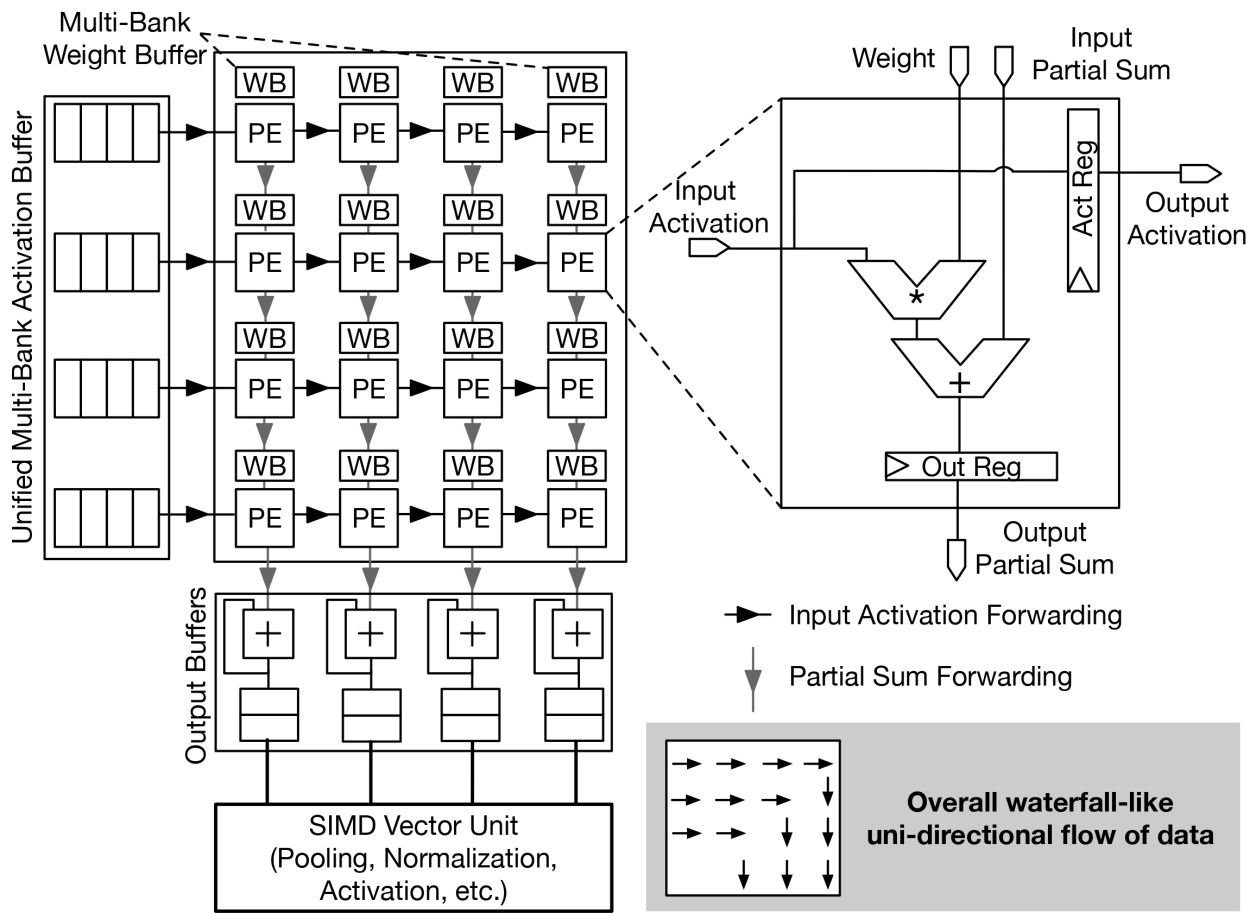
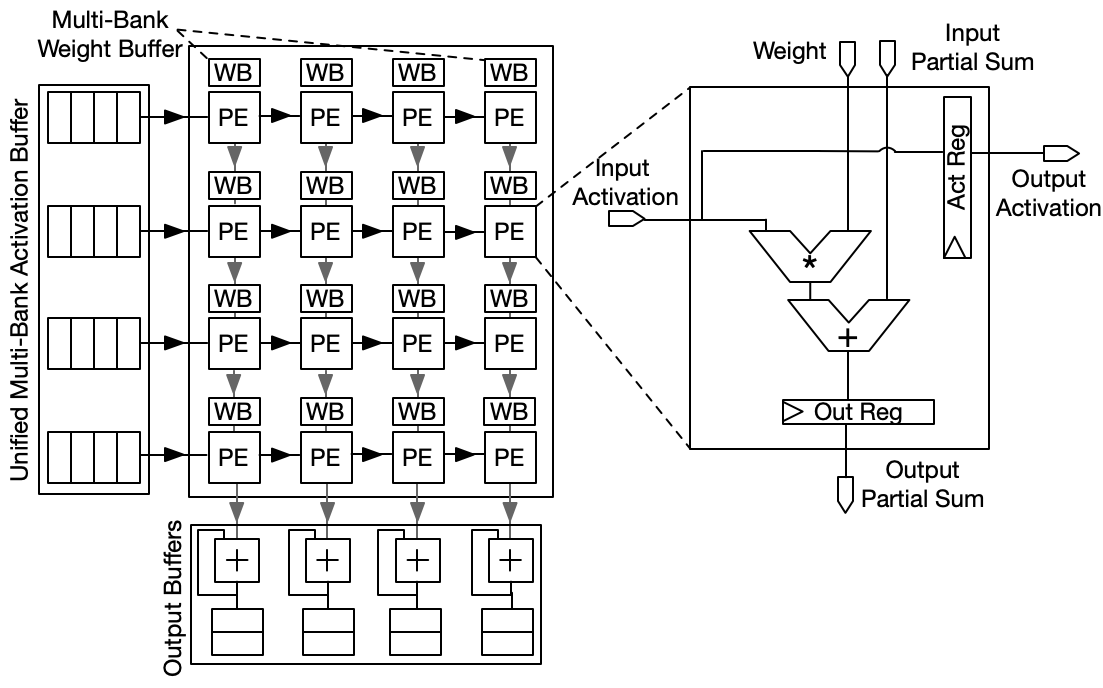
Moved compiler and arch info to separate page + new citation for GeneSys

Changed region(s): [[0.0, 0.0, 1.0, 1.0]]

diff --git a/_pages/architecture.md b/_pages/architecture.md
@@ -1,0 +1,176 @@
+---
+layout: page
+permalink: /architecture/
+title: architecture
+description: 
+nav: true
+nav_order: 2
+---
+
+# Architecture
+The overall system consists of two core components: a systolic array and a Tandem Processor.
+Data is supplied to the two engines through the input buffer (IBUF), output buffer (OBUF), instruction memory (IMEM), weight buffer (WBUF), bias buffer (BBUF) and vector memory (VMEM).
+These interfaces harbor programmable data access modules and controller FSMs that together issue the addresses and requests to load or store a tile of data from/to off-chip memory. 
+The data access creates strided patterns that access the off-chip memory to read/write the corresponding data from/to on-chip buffers and populate the on-chip memory.
+These interfaces also include tag logic that is in charge of handling double-buffered data transfer to hide the latencies of load/store operations and also facilitate prefetching.
+Among these interfaces, the interfaces for the OBUF and Tandem Processor handle both load and store operations, while the other interfaces handle only load operations.
+These interfaces are fully programmable through the instruction set architecture (ISA) of the Tandem Processor. The overall system view is shown below.
+
+<div class="row mt-3">
+    <div class="col-sm mt-3 mt-md-0">
+        {% include figure.html path="assets/img/system_arch.jpg" class="img-fluid rounded z-depth-1" %}
+    </div>
+</div>
+<div class="caption">
+    _GeneSys_ system architecture.
+</div>
+
+## Systolic Array
+We implemented an systolic array to handel GEMM operations.
+The systolic array has been the de facto standard architecture for GEMM operation in both academia and industry.
+A systoic array consists of a 2D array of Processing Elements (PE) to perform matrix multiplications and convolution.
+Input activations are stored on-chip in the IBUFF implemented as a multi-bank scratchpad, where each bank is shared across PEs within a row.
+Each PE contains its own bank of WBUFF where the weights are stored.
+Consequently, at each cycle, an input activation is read from an IBUFF's Bank and is reused for all the PEs (MAC units) within the row.
+At each cycle, each PE forwards the input activation to the PE to its right (horizontal) and the output partial sum to the PE to its bottom (vertical).
+Finally, the outputs are stored in OBUFF which is a shared sctrachpad that Tandem processor can also access.
+
+<div class="row mt-3">
+    <div class="col-sm mt-3 mt-md-0">
+        {% include figure.html path="assets/img/systolic_array.jpg" class="img-fluid rounded z-depth-1" %}
+    </div>
+</div>
+<div class="caption">
+    _GeneSys_ systolic array.
+</div>
+
+## Tandem Processor
+The design of Tandem Processor aims to achieve the following goals.
+1) In-tandem execution of GEMMs and non-GEMMs.
+2) Balanced efficiency and programmability for the non-GEMM unit.
+3) Orchestrating the execution across non-GEMM and GEMM units.
+
+It achieves these goal by the following microarchitecture designs.
+
+<div class="row mt-3">
+    <div class="col-sm mt-3 mt-md-0">
+        {% include figure.html path="assets/img/tandem_pipeline.jpg" class="img-fluid rounded z-depth-1" %}
+    </div>
+</div>
+<div class="caption">
+    Tandem Processor pipeline.
+</div>
+
+### On-Chip Memory Organization
+Tandem Processor replaces the entire vector register file and cache hierarchy with a collection of single-level software-managed on-chip scratchpads.
+Tandem Processor directly accesses and operates on these scratchpads while performing the non-GEMM operations.
+This design innovation is in contrast to all prior SIMD designs that rely on register file execution and memory semantics.
+We refer to Tandem Processor scratchpads as Namespaces, Interim BUF 1&2 namespaces represent the central Tandem Processor’s on-chip scratchpads that operate as a storage medium for tensor operands as well as their intermediate results.
+These scratchpads, which bridge the off-chip memory and Tandem Processor, are populated/drained by a Data Access Engine at a tile granularity.
+The Tandem Processor compiler configures the Data Access Engine by setting the base address of the off-chip source along with a series of stride values.
+Note that, the tiled data may be even dispersed across non-contiguous regions of memory lines, yet statically arranged in strided patterns.
+IMM BUF namespace serves as a small 32-slot scratchpad for immediate values in non-GEMM operations.
+This buffer is programmed with a series of customized instructions at the onset of non-GEMM layer execution.
+The last namespace is Output BUF, which serves as the GEMM Unit’s buffer for output values.
+
+### Specialized On-Chip Data Access
+on-chip address calculations require excessive number of arithmetic instructions which impose runtime overheads.
+To tackle this challenge, we devise a dedicated pipeline stage for address calculation at the front-end, relieving the burden of address calculation from compute units.
+We place the Iterator Tables that are used to store the offset and stride information for scratchpad accesses at the decode stage of the Tandem Processor pipeline.
+There is a dedicated Iterator Table for each namespaces of the Tandem Processor.
+Upon decoding one arithmetic/logic instruction, the ⟨Namespace ID, Iterator Index⟩ retrieves the address calculation information from the corresponding Iterator Table.
+The resulting outputs of accessing the Iterator Tables is a triplet address, two for source operands and one for destination operand.
+Each element of the triplet is a tuple of ⟨offset, stride⟩, indicating that target data resides in Scratchpad[offset + stride].
+The triplet address is passed down to the subsequent pipeline stage (Strided Address Calculation) that repetitively assembles a series of scratchpad addresses, each as the result of offset + stride computation.
+The scratchpad indices propagate down the multi-staged execution pipeline to fetch the tiled operands, perform the non-GEMM operations, and write back the resulting data to the pipeline back-end.
+
+### Nested Loop Support
+Non-GEMM layers are formed of nested loops of primitive operations with pre-determined iteration counts.
+Tandem Processor uses software-managed tables in the fetch pipeline stage to orchestrate the execution of nested loop constructs in hardware.
+Prior to execution, these tables are configured once with the iteration counts and corresponding number of nested loop levels.
+Once configured, these specialized tables are used repeatedly in conjunction with the iterator tables to execute the loop body.
+This is crucial, since appropriate ⟨Offset, Stride⟩ tuples need to be employed at each level of loop nest to correctly calculate the scratchpad addresses.
+This specialized loop execution is unique to Tandem Processor, as prior work [89, 90 ] leveraged hardware-managed loop logic with register-file based designs and did not offer mechanisms to combine it with address calculation.
+
+### Arithmetic Logic Units Design
+To support a diverse set of non-GEMM layers, We instead leverage the feasibility of implementing complex non-GEMM layers with a set of simple primitive operations.
+For instance, GeLU operator can be implemented using five multiplications, three additions, a sign, an absolute, and a minimum operations.
+We consider a union set of these primitives that is comprehensive enough to support a wide range of non-GEMM layers.
+
+### Tandem Processor Coordination, Synchronization, and Overall Execution Flow
+We use tile (sub-tensor) granularity for software pipelining to facilitate execution overlap between GEMM and non-GEMM units.
+To enable tile-based coordination, enable a fluid ownership of the GEMM unit’s Output BUF for Tandem Processor, obviating redundant data communications.
+After the GEMM unit completes storing the intermediate data in the Output BUF, Tandem Processor takes the ownership of the buffer and directly executes its computations on the stored data.
+We leverage the compiler to weave a set of synchronization instructions between GEMM and non-GEMM instructions. 
+These synchronization instructions realize the following objectives: (1) They identify the code regions for GEMM unit and Tandem Processor, facilitating the instruction dispatch. 
+(2) They define the flow of execution between GEMM and non-GEMM units.
+(3) They govern the handshaking mechanism between the acceleration units.
+
+# ISA
+Tandem Prcoessor and systolic array are fully programmable through the ISA available [here](https://github.com/actlab-genesys/GeneSys.arch/blob/main/ISA.xlsx).
+The ISA is consist of the serval class which is discribed in detail below.
+
+<div class="row mt-3">
+    <div class="col-sm mt-3 mt-md-0">
+        {% include figure.html path="assets/img/isa.jpg" class="img-fluid rounded z-depth-1" %}
+    </div>
+</div>
+<div class="caption">
+    _GeneSys_ ISA.
+</div>
+
+## Tandem Processor ISA
+
+### Configuration Instructions
+This class includes two opcodes.
+The ITERATOR_CONFIG opcode is used with three functions (func bits): (1) BASE_ADDR to fill the Iterator Tables with the base addresses for the scratchpads, (2) STRIDE to fill the Iterator Tables with strides for the scratchpad address calculation, and (3) IMM BUF to fill the immediate buffer with the immediate values needed for non-GEMM operations.
+The ns id and iter idx fields identify the target namespace and the index to its corresponding Iterator Table. 
+Also, this instruction is used to set the immediate values in IMM BUF. Another opcode is DATATYPE_CONFIG, which is used for datatype casting.
+
+### Compute Instructions
+Opcode ALU is defined with various func bits to support Add, Sub, Mul, MACC, Div, Max, Min, Shift, Not, AND, OR operations on src1 and/or src2 operands. 
+Additionally, this opcode supports MOVE/COND_MOVE instructions for scatter/gather operations. 
+Opcode CALCULUS consists of mathematical operations such as absolute value and sign. 
+Opcode COMPARISON supports logical comparisons. 
+The operands (src1/src2/dst) for each instruction are specified by using a 3-bit ns id to locate the buffer, and a 5-bit iter idx corresponding to the stride and offset.
+
+### Loop Instructions
+This class is used with the LOOP opcode to configure the Code Repeater. 
+This opcode is used with SET_ITER function bits to specify the iterations for each loop identified by loop id. 
+The SET_NUM_INST function is used to identify the number of instructions in the loop body. 
+To cope with the customized on-chip memory accesses for each loop dimension, the SET_INDEX function is used, while the rest of the instruction bits are used to set the associated ⟨ns ID, iter idx⟩ for the three operands (similar to compute instructions).
+The loop instructions are designed to support arbitrary levels of nesting (up to eight, each of which is identified by loop id field) needed by non-GEMM operators.
+
+### Data Transformation Instructions
+This class is used with two opcodes: (1) PERMUTE for permuting multi-dimensional tensors using the Permute Engine. (2) DATATYPE_CAST for datatype casting.
+For PERMUTE opcode, SET_BASE_ADDR, SET_LOOP_ITER, and SET_LOOP_STRIDE functions configure the base addresses, shapes, and strides, respectively, for both the source and destination’s tensor dimensions (identified by dim idx).
+Then, with the START function, the iterators start generating the address for the source and destination according to the desired permutation. 
+Additionally, the LSB bit of the Immediate field while using the START function identifies if this permutation operation requires shuffling the data across the SIMD lanes/scratchpad banks or not. 
+DATATYPE_CAST opcode is used to cast tensor elements to various fixed-point representations such as FXP32, FXP16, FXP8, and FXP4 needed by the GEMM unit.
+
+### Off-Chip Data Movement Instructions
+TILE_LD_ST opcode describes the data tile transfer between off-chip memory and Interim BUFs.
+The func1 field includes various fucntions: The LD/ST_CONFIG_BASE_ADDR function is used to generate the base addresses of each tile, then the shape and strides are configured using the LD/ST_CONFIG_BASE_LOOP_ITER/STRIDE functions.
+Also, LD/ST_CONFIG_TILE_LOOP_ITER/STRIDE functions are used to configure the Data Access Engine to generate the addresses required for each tile.
+Finally, LD/ST_START function triggers the Data Access Engine to start populating/draining the intermediate buffers. 
+The func2 field is used to identify the target buffer between Interim BUF 1&2.
+
+## Systolic Array ISA
+
+### Compute Loop Instructions and LD/ST Loop Instructions
+This class is used with the SA_LOOP opcode to configure the Code Repeater on the systolic array.
+It consists of xx opcodes.
+SA_LOOP specifies the iterations for each loop identified by loop id. SET_LOOP_STRIDE and SET_LOOP_ADDR works together to set the the base addresses for the scratchpads and STRIDE to fill the Iterator Tables with strides for the scratchpad address calculation.
+The mechnism is identical to the Tandem Processor Configrueation and Loop instruction.
+The LD/ST Loop instruction shares the same LOOP structure with the compute loop.
+
+### Off-Chip Data Movement Instructions
+LD_ST insturction specify the request size of each LD/ST instruction.
+The LD/ST Loop instruction shares the same LOOP iteration structure with the compute loop.
+
+## Shared Instructions
+
+### Synchronization Instructions
+The func bits are defined as ⟨GEMM/SIMD,START/END,EXEC/BUF,X⟩.
+The START/END along with EXEC bit identifies the regions of instructions that belong to Tandem Processor and GEMM Unit (identified with GEMM/SIMD bit accordingly), which helps dispatch instructions to the appropriate unit.
+Also, this instruction can be used with EXEC bit to notify the GEMM Unit that the execution of non-GEMM operations of the running tile is completed, or with BUF bit to notify GEMM Unit that the OUTPUT BUF is released and ready for the subsequent tile.

diff --git a/_pages/about.md b/_pages/about.md
@@ -29,50 +29,3 @@ The target workloads for the accelerator are computer vision and transformers-ba
 <div class="caption">
     An overview of the GeneSys workflow.
 </div>
-
-The accelerator consists of two core components: a systolic array and a SIMD array.
-Data is supplied to the two engines through the input buffer (IBUF), output buffer (OBUF), instruction memory (IMEM), weight buffer (WBUF), bias buffer (BBUF) and vector memory (VMEM).
-These interfaces harbor programmable data access modules and controller FSMs that together issue the addresses and requests to load or store a tile of data from/to off-chip memory.
-The data access creates strided patterns that access the off-chip memory to read/write the corresponding data from/to on-chip buffers and populate the on-chip memory.
-These interfaces also include tag logic that is in charge of handling double-buffered data transfer to hide the latencies of load/store operations and also facilitate prefetching.
-Among these interfaces, the interfaces for the OBUF and SIMD array handle both load and store operations, while the other interfaces handle only load operations.
-These interfaces are fully programmable through the instruction set architecture (ISA) of the GeneSys accelerator.
-
-<div class="row mt-3">
-    <div class="col-sm mt-3 mt-md-0">
-        {% include figure.html path="assets/img/genesys_high_level_architecture.jpg" class="img-fluid rounded z-depth-1" %}
-    </div>
-</div>
-<div class="caption">
-    The architecture of the parameterizable GeneSys DNN accelerator.
-</div>
-
-Our systolic array configuration is characterized by a unified activation buffer that feeds input data into the system.
-Each PE in the array is also equipped with its own weight buffer bank.
-The output generated by the systolic array can be directed in two ways.
-It can either be stored directly to DRAM or it can be read by the SIMD array.
-The latter option allows for additional operations to be performed on the output data, such as activation functions or pooling.
-
-<div class="row mt-3">
-    <div class="col-sm mt-3 mt-md-0">
-        {% include figure.html path="assets/img/systolic_array.jpg" class="img-fluid rounded z-depth-1" %}
-    </div>
-</div>
-<div class="caption">
-    The systolic array.
-</div>
-
-The compiler for GeneSys starts with an ONNX description of an ML algorithm and generates an intermediate representation (IR) in the form of a simultaneous-recursive dataflow graph (sr-DFG).
-The sr-DFG is a recursively defined dataflow graph which enables simultaneous access to all levels of operation granularity for flexibly compiling to different architectures.
-Once generated from an ONNX file, the sr-DFG is transformed to a series of parameterized operation kernels.
-The operation kernels are then transformed and optimized by applying an architecture description to the compilation process, which constrains kernel parameters based on hardware attributes such as memory size, bandwidth, and operation capabilities.
-Once the kernel parameters are evaluated, each statement in the kernel is used to generate sequences of instructions defined by the architecture abstraction.
-
-<div class="row mt-3">
-    <div class="col-sm mt-3 mt-md-0">
-        {% include figure.html path="assets/img/genesys_compiler_flow.jpg" class="img-fluid rounded z-depth-1" %}
-    </div>
-</div>
-<div class="caption">
-    An overview of the GeneSys compilation workflow. 
-</div>

diff --git a/_pages/compiler.md b/_pages/compiler.md
@@ -1,0 +1,23 @@
+---
+layout: page
+permalink: /compiler/
+title: compiler
+description: 
+nav: true
+nav_order: 3
+---
+
+The compiler for GeneSys starts with an ONNX description of an ML algorithm and generates an intermediate representation (IR) in the form of a simultaneous-recursive dataflow graph (sr-DFG).
+The sr-DFG is a recursively defined dataflow graph which enables simultaneous access to all levels of operation granularity for flexibly compiling to different architectures.
+Once generated from an ONNX file, the sr-DFG is transformed to a series of parameterized operation kernels.
+The operation kernels are then transformed and optimized by applying an architecture description to the compilation process, which constrains kernel parameters based on hardware attributes such as memory size, bandwidth, and operation capabilities.
+Once the kernel parameters are evaluated, each statement in the kernel is used to generate sequences of instructions defined by the architecture abstraction.
+
+<div class="row mt-3">
+    <div class="col-sm mt-3 mt-md-0">
+        {% include figure.html path="assets/img/genesys_compiler_flow.jpg" class="img-fluid rounded z-depth-1" %}
+    </div>
+</div>
+<div class="caption">
+    An overview of the GeneSys compilation workflow. 
+</div>

diff --git a/_pages/publications.md b/_pages/publications.md
@@ -2,12 +2,32 @@
 layout: page
 permalink: /publications/
 title: publications
-description: publications that include GeneSys by categories in reversed chronological order. generated by jekyll-scholar.
+description: generated by jekyll-scholar.
 nav: true
-nav_order: 2
+nav_order: 4
 ---
 <!-- _pages/publications.md -->
 
+# Citing GeneSys
+Please use the following BibTeX entry to cite GeneSys.
+
+```
+@INPROCEEDINGS{tandem_processor-asplos24,
+  author={Ghodrati, Soroush and Kinzer, Sean and Xu, Hanyang and Mahapatra, Rohan and Ahn, Byung Hoon and Wang, Dong Kai and Karthikeyan, Lavanya and Yazdanbakhsh, Amir and Park, Jongse and Kim, Nam Sung and Esmaeilzadeh, Hadi},
+  booktitle={ASPLOS 2024: Proceedings of the 29th ACM International Conference on Architectural Support for Programming Languages and Operating Systems}, 
+  title={Tandem Processor: Grappling with Emerging Operators in Neural Networks}, 
+  year={2024},
+  publisher = {Association for Computing Machinery},
+  address = {New York, NY, USA},
+  volume = {},
+  number = {},
+  pages = {},
+  location = {San Diego, CA, USA},
+  series = {ASPLOS 2024}
+}
+```
+
+# Other Publications Using GeneSys
 <div class="publications">
 
 {% bibliography -f {{ site.scholar.bibliography }} %}

diff --git a/_pages/repositories.md b/_pages/repositories.md
@@ -4,7 +4,7 @@ permalink: /repositories/
 title: repositories
 description: GitHub repositories for GeneSys.
 nav: true
-nav_order: 4
+nav_order: 5
 ---
 
 {% if site.data.repositories.github_repos %}
